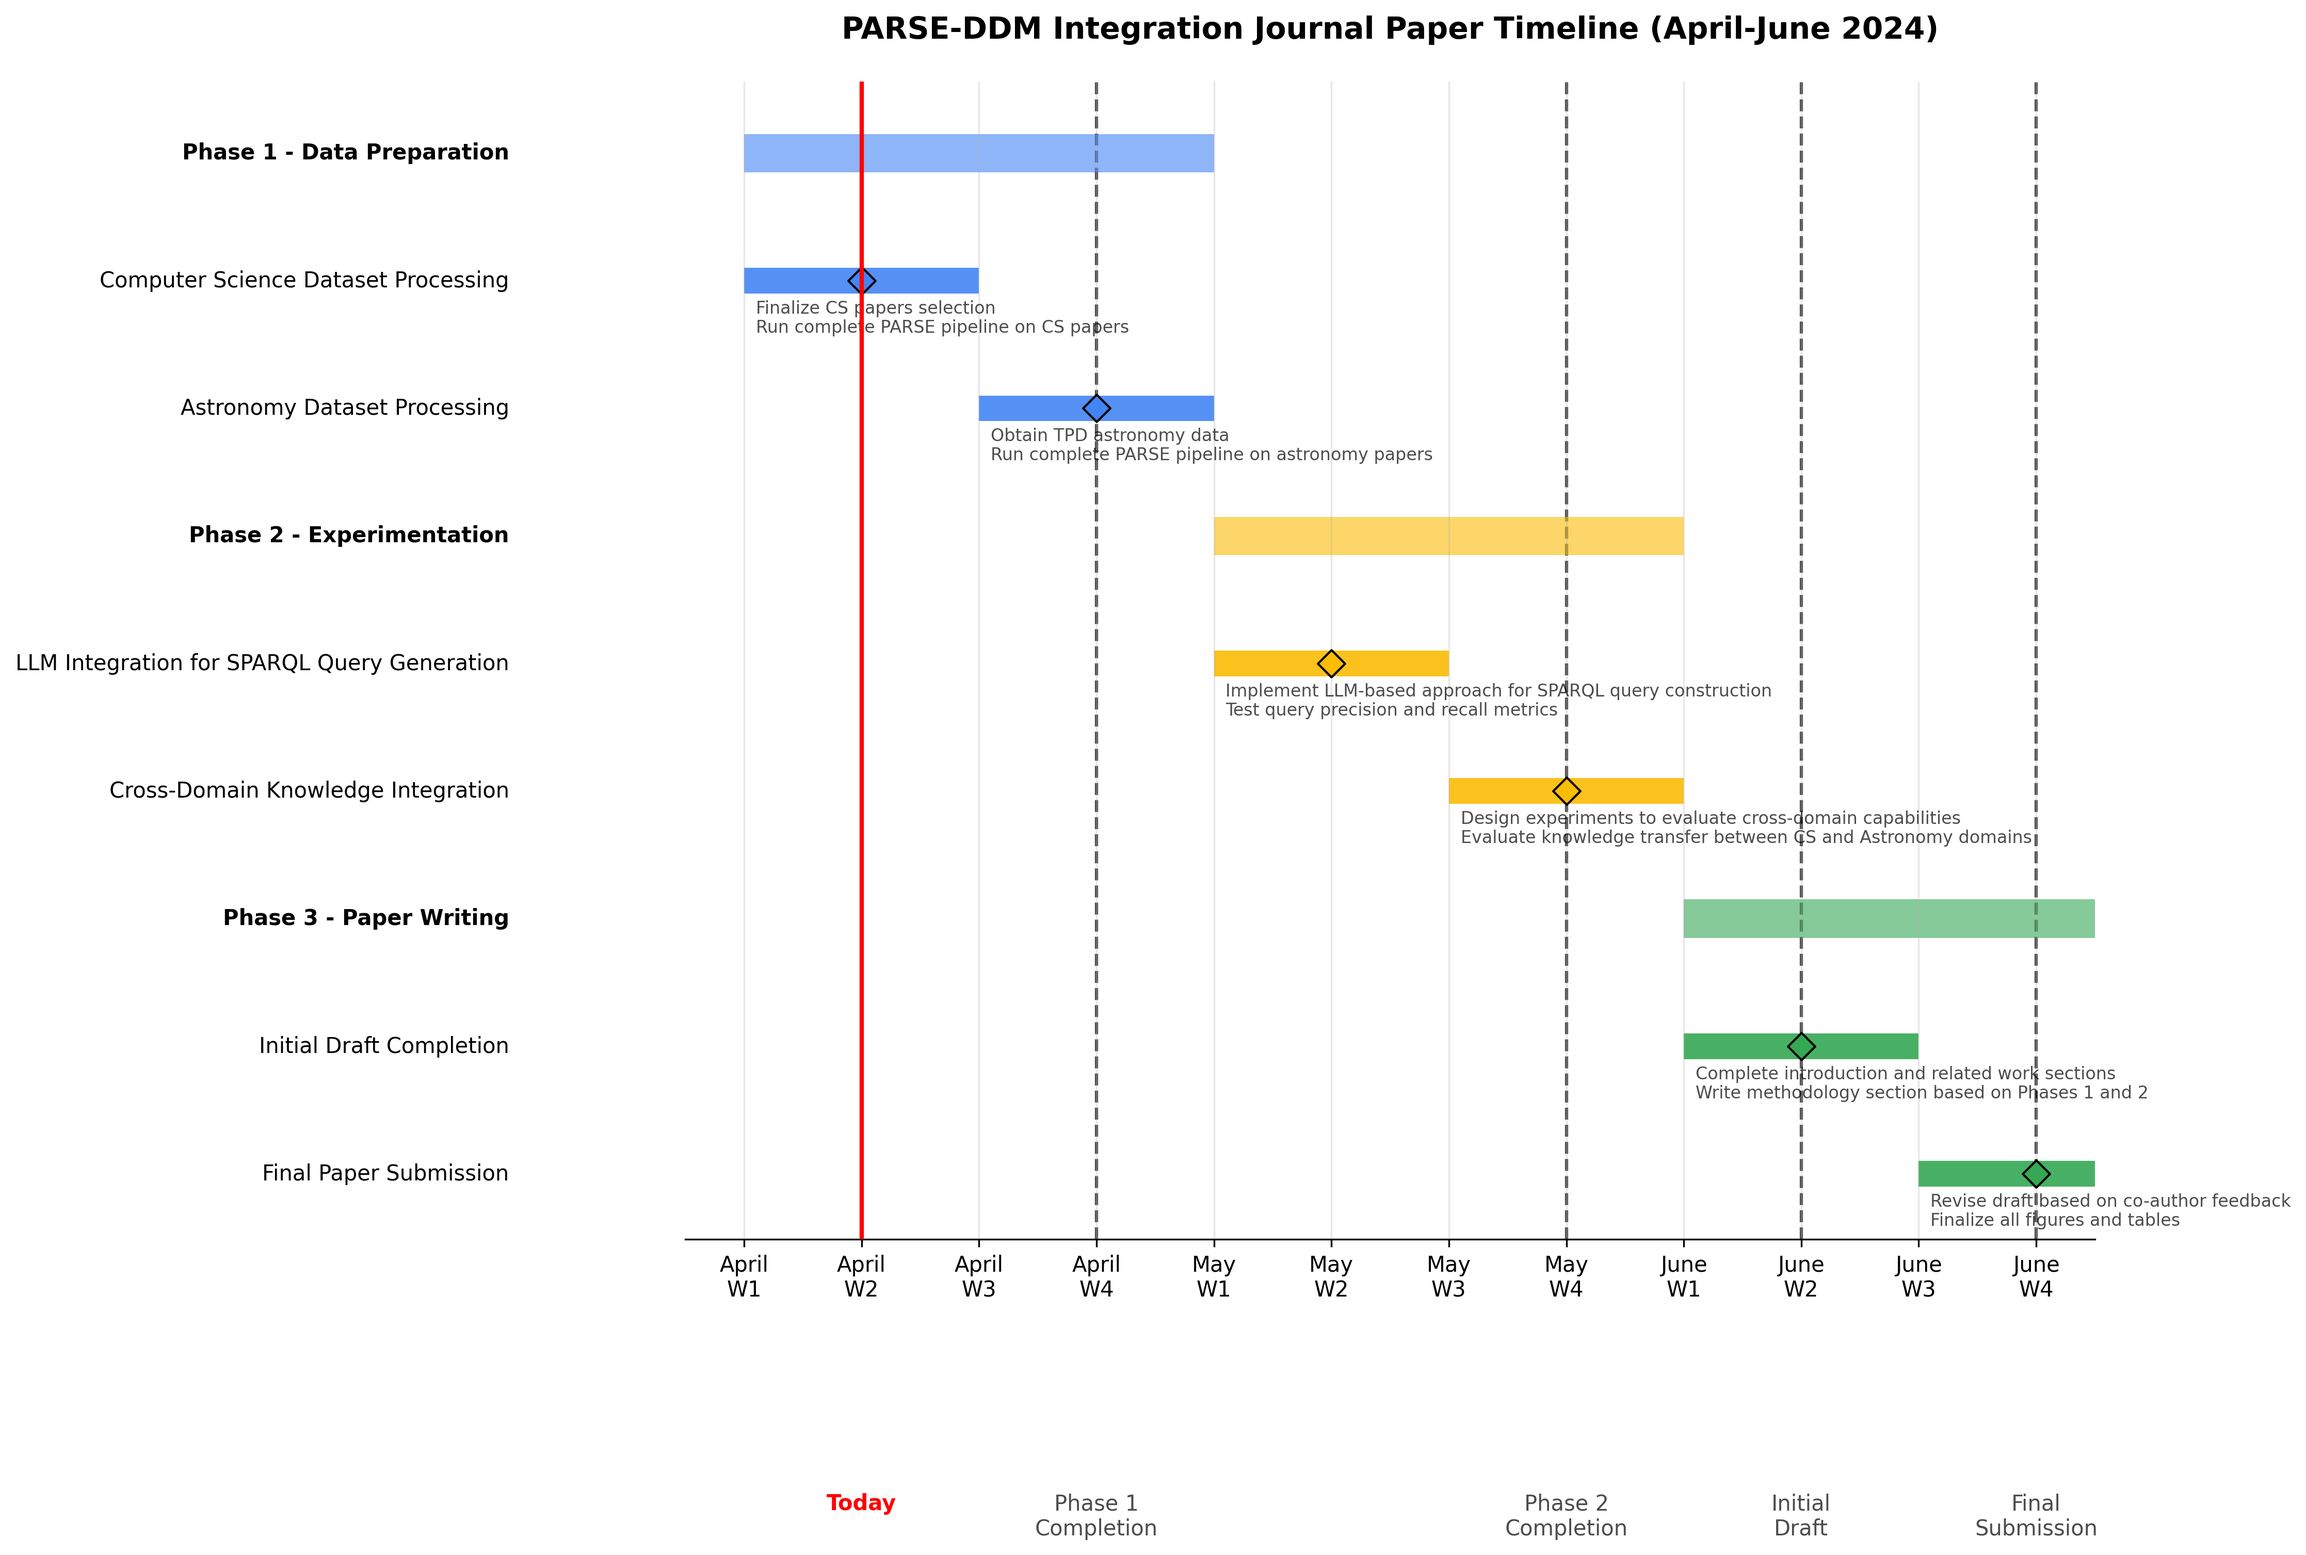
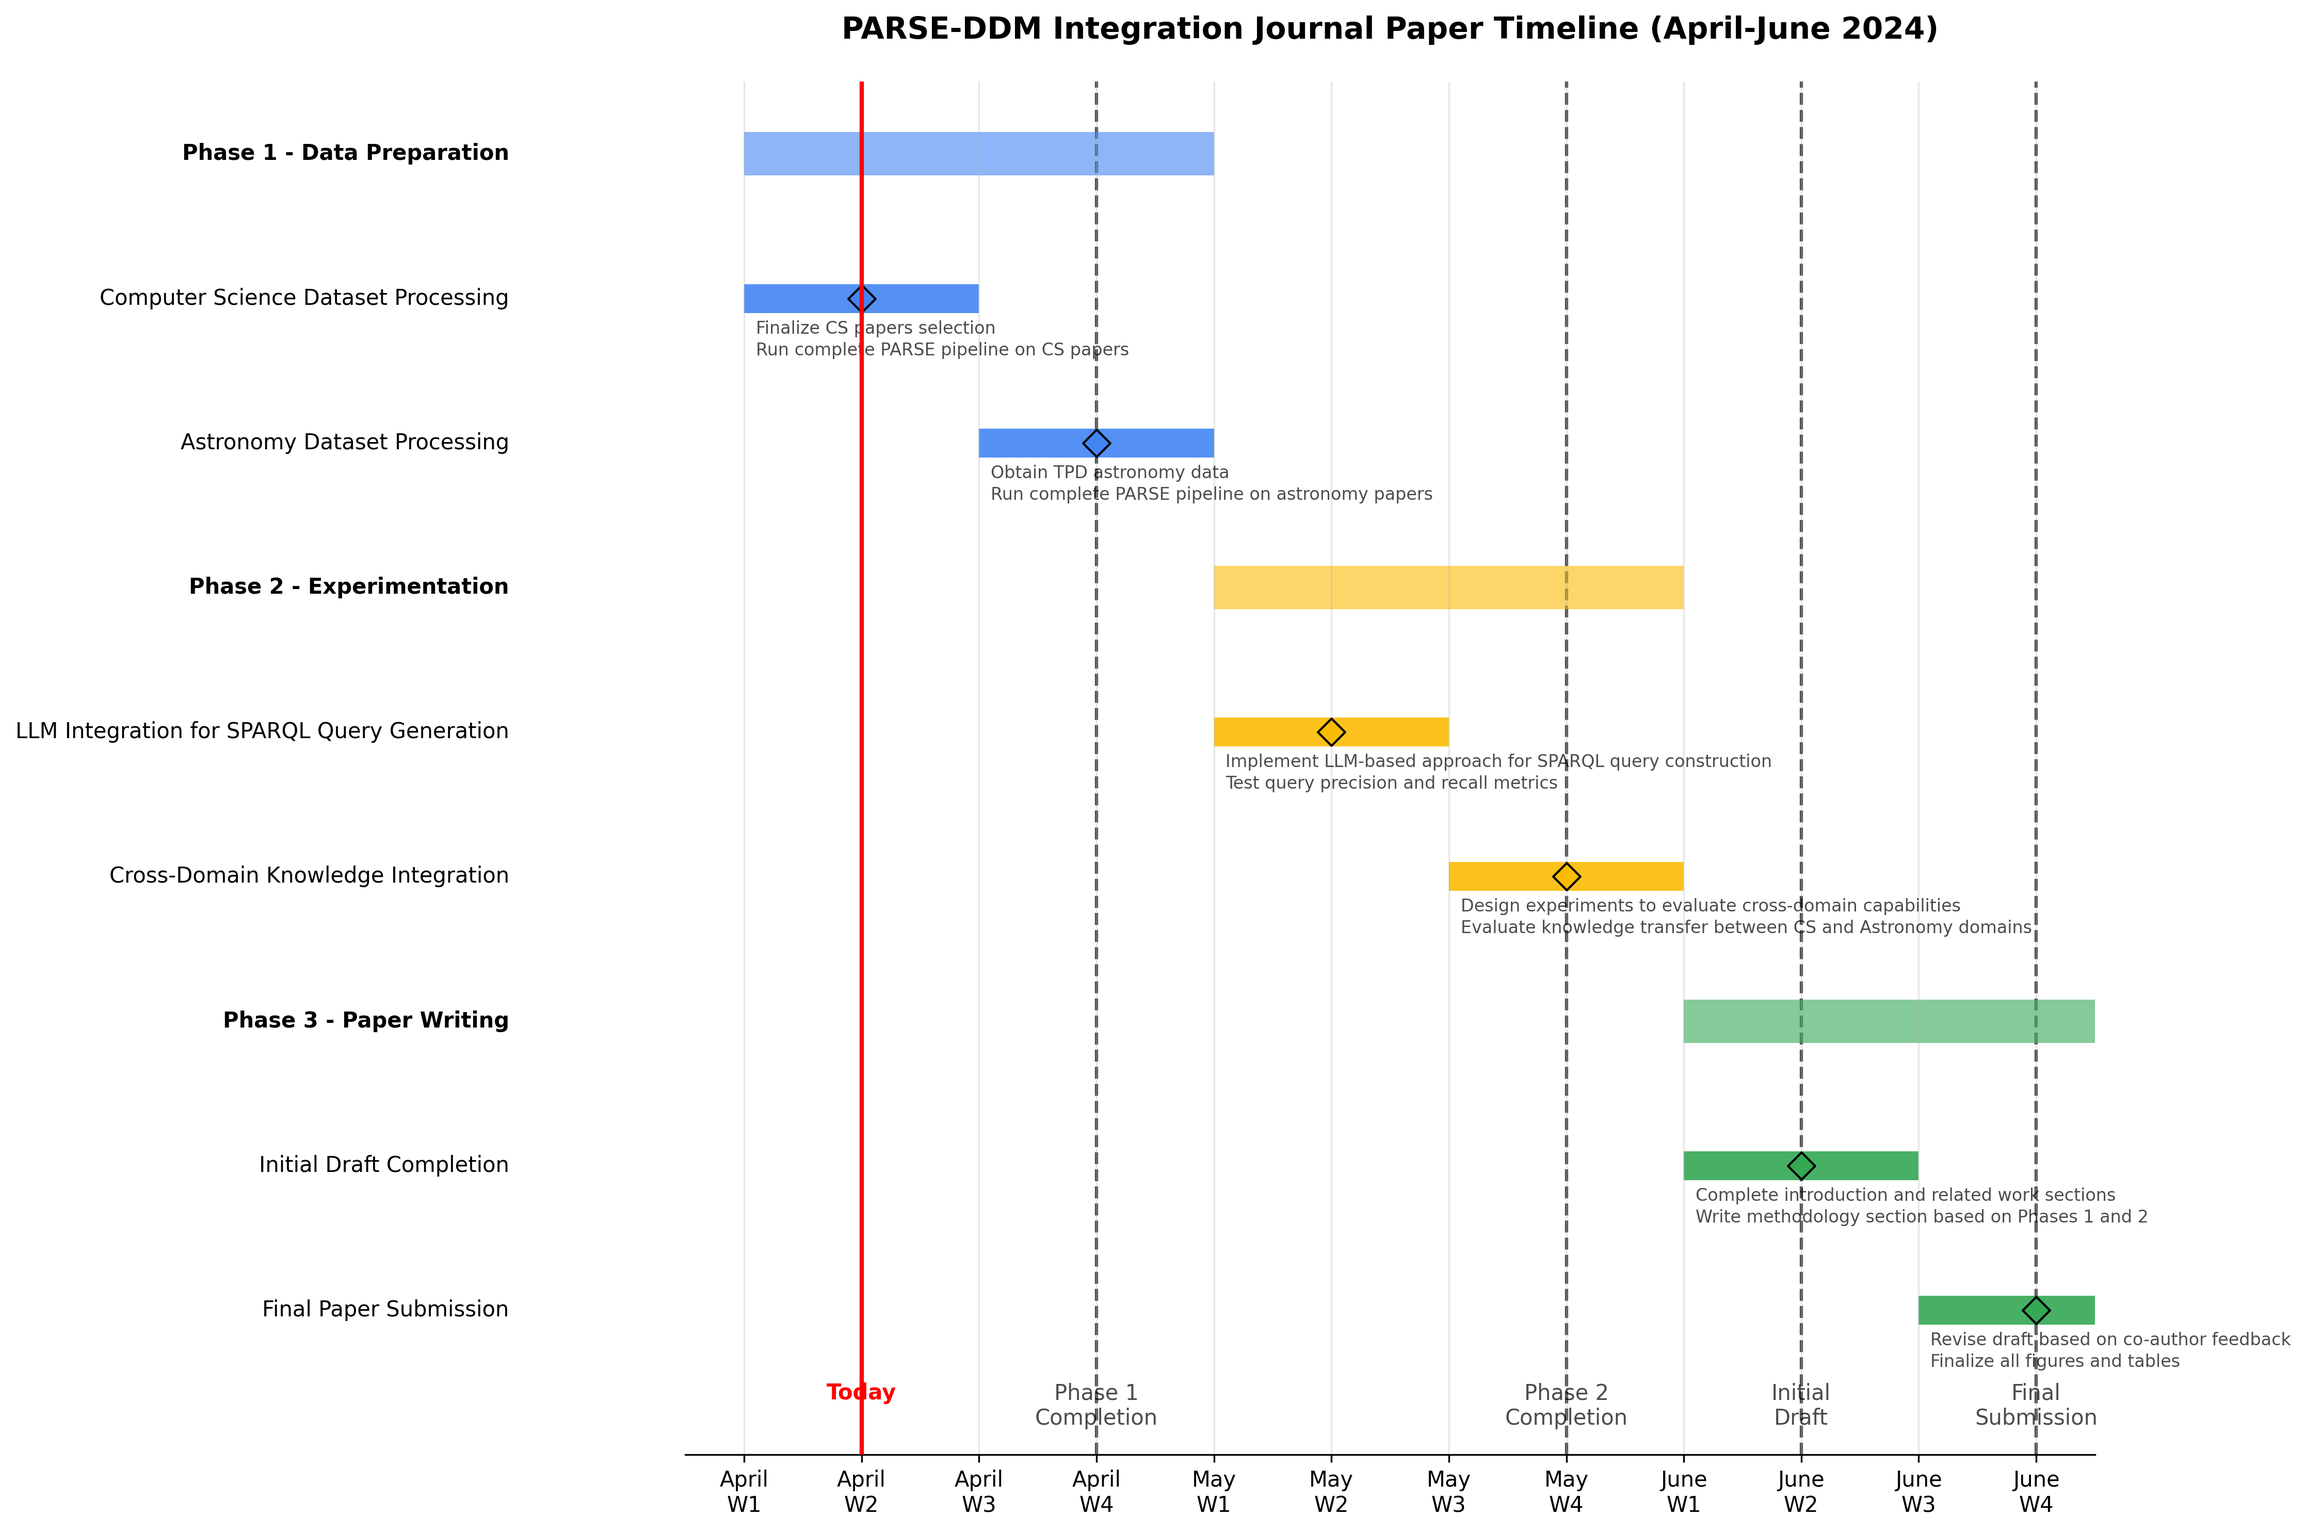
Enhance timeline visualization by adjusting y-axis limits and margins; update minimum y position tracking for better label placement.

diff --git a/code/Journal/timeline.py b/code/Journal/timeline.py
@@ -156,6 +156,9 @@ def visualize_timeline():
     y_labels = []
     
     # Add phases and milestones
+    min_y_pos = 0  # Track the minimum y position
+    
+    # Add phases and milestones
     for phase_idx, (phase_name, phase_details) in enumerate(timeline.items()):
         # Determine phase position
         if phase_idx == 0:  # Phase 1 - April
@@ -182,6 +185,7 @@ def visualize_timeline():
         # Add milestones with increased spacing
         for milestone_idx, milestone in enumerate(phase_details["milestones"]):
             y_pos -= y_spacing  # Increase space between milestones
+            min_y_pos = min(min_y_pos, y_pos)  # Update minimum y position
             
             # Determine milestone position
             if phase_idx == 0:  # Phase 1
@@ -239,8 +243,11 @@ def visualize_timeline():
         "Final\nSubmission": 11    # End of June
     }
     
-    # Calculate the bottom position for milestone labels
-    bottom_pos = y_pos - 3
+    # Calculate the bottom position for milestone labels - closer to x-axis
+    bottom_pos = min_y_pos - 1  # Reduce the gap
+    
+    # Set y-axis limit to include the bottom labels
+    ax.set_ylim(bottom_pos - 1, 1)  # Add some padding at top and bottom
     
     for event, week_idx in key_weeks.items():
         ax.axvline(x=week_idx, color='black', linestyle='--', alpha=0.7, zorder=0)
@@ -251,7 +258,7 @@ def visualize_timeline():
     ax.grid(True, axis='x', alpha=0.3)
     
     # Adjust plot margins to accommodate longer labels
-    plt.subplots_adjust(left=0.3, bottom=0.2)  # Increase left and bottom margins
+    plt.subplots_adjust(left=0.3, bottom=0.15)  # Reduce bottom margin
     
     # Set title and labels
     ax.set_title('PARSE-DDM Integration Journal Paper Timeline (April-June 2024)', 
